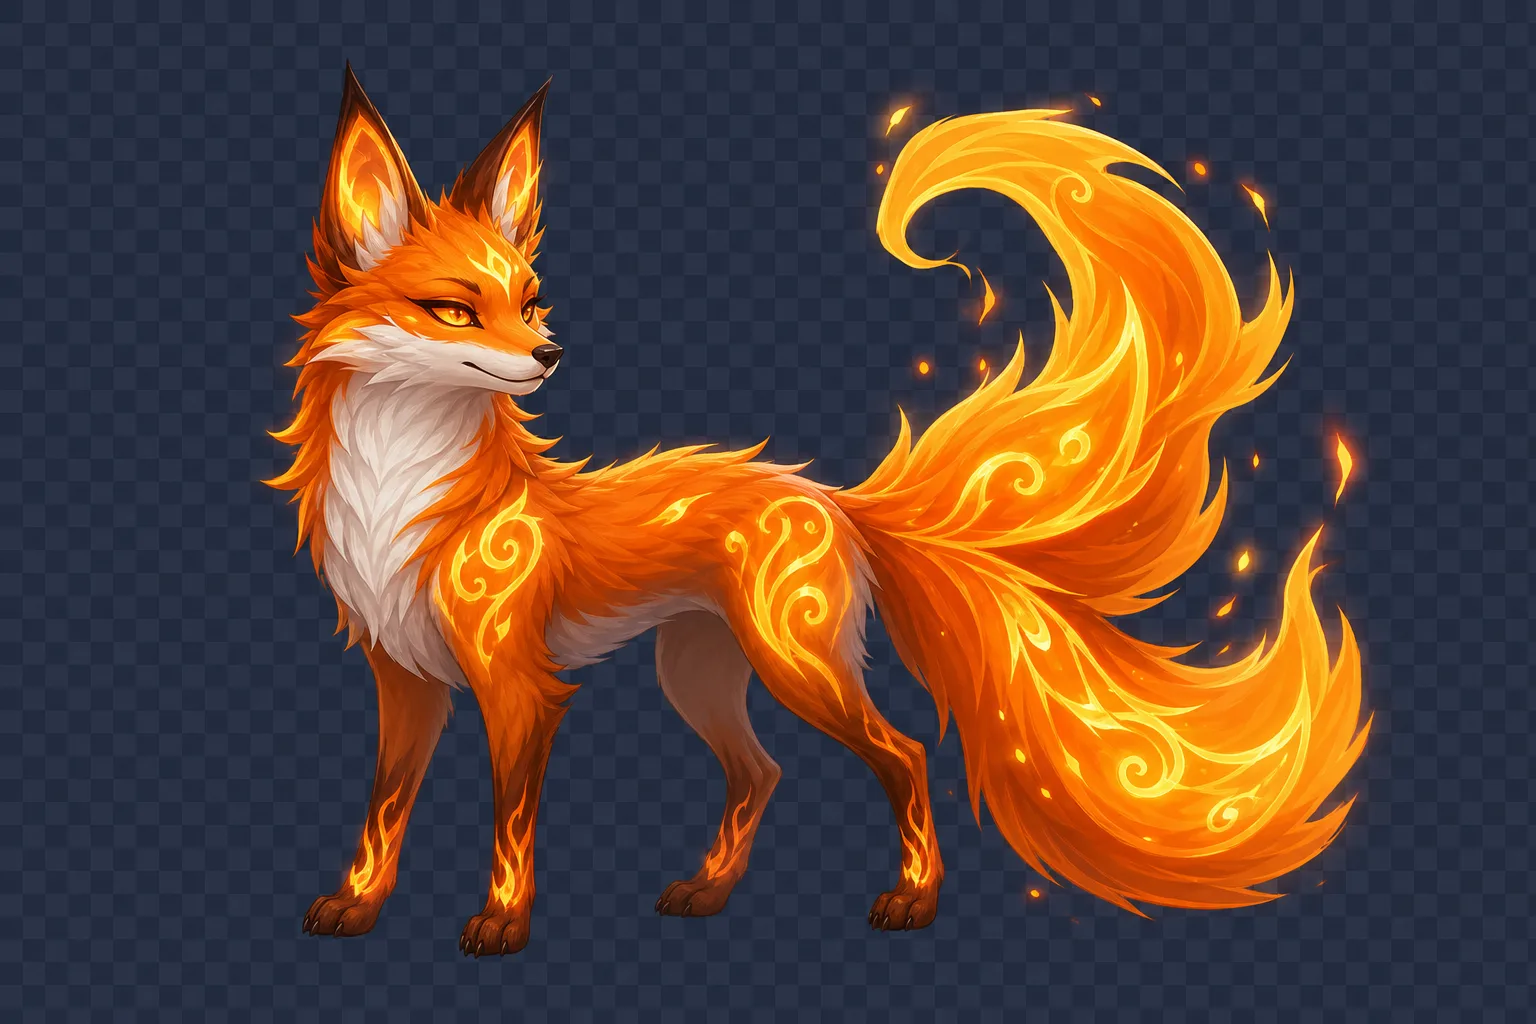
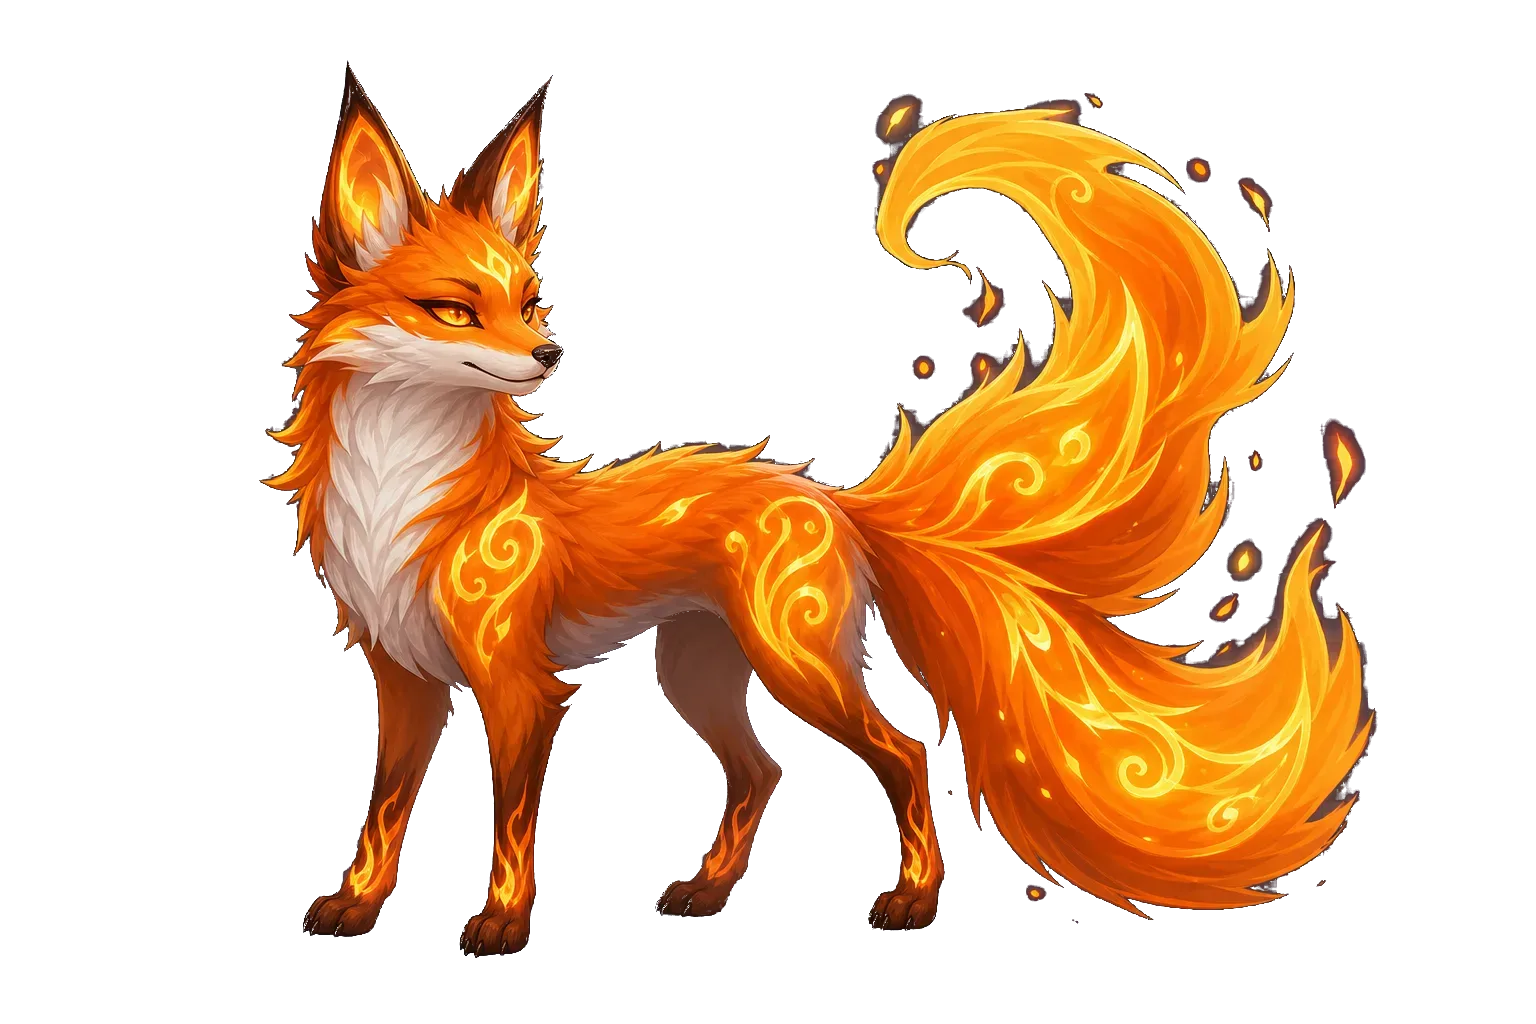
Fix invisible Fox Spirit by matting dark navy background.
Fox art used a dark backdrop that matched the stage; extend matte script for dark keys, commit transparent fox WebP, and start orbit on the right side.

diff --git a/src/app/globals.css b/src/app/globals.css
@@ -286,9 +286,9 @@ body {
 }
 
 .companion-figure-raster--orbit {
-  max-height: min(52vw, 280px);
-  min-height: 140px;
-  height: 100%;
+  max-height: min(58vw, 320px);
+  min-height: 160px;
+  height: auto;
   width: auto;
 }
 
@@ -396,19 +396,19 @@ body {
 
 @keyframes companion-orbit-spin {
   from {
-    transform: rotate(0deg);
+    transform: rotate(90deg);
   }
   to {
-    transform: rotate(360deg);
+    transform: rotate(450deg);
   }
 }
 
 @keyframes companion-orbit-counter {
   from {
-    transform: rotate(0deg);
+    transform: rotate(-90deg);
   }
   to {
-    transform: rotate(-360deg);
+    transform: rotate(-450deg);
   }
 }
 